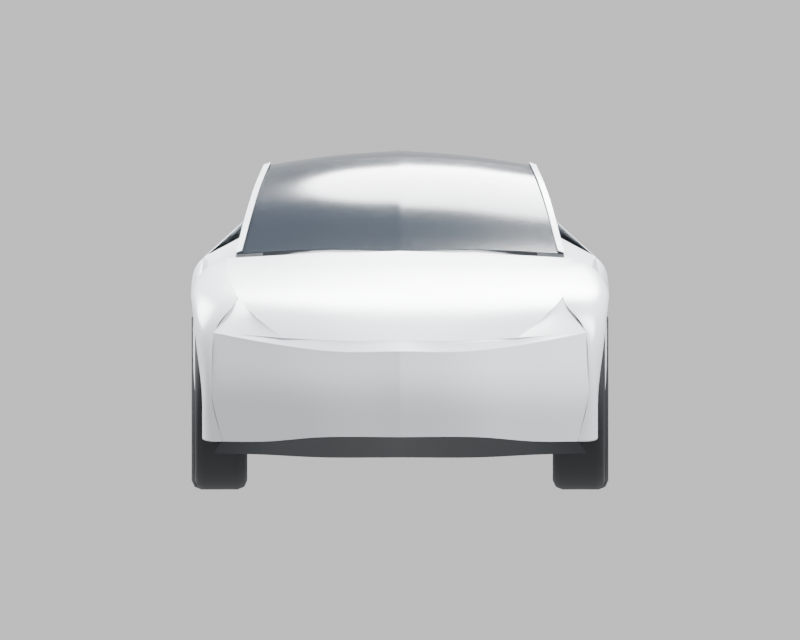
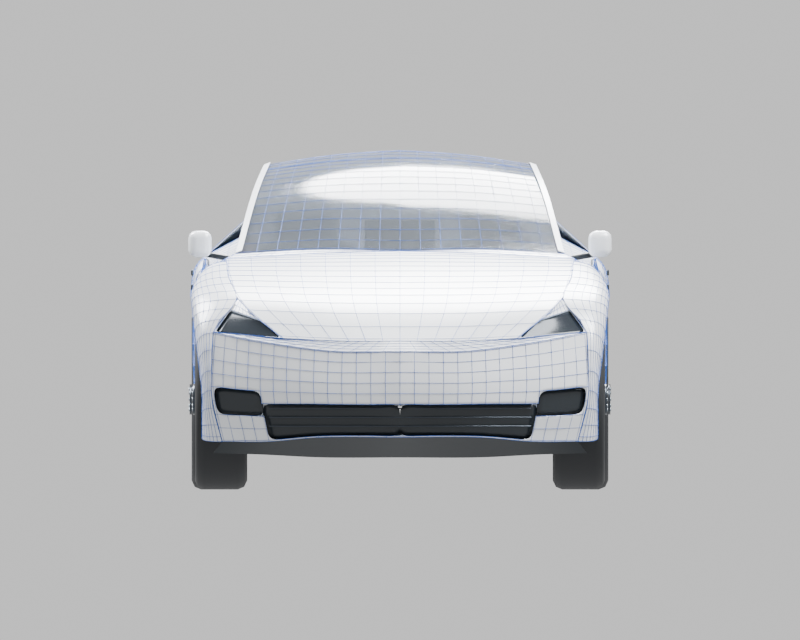
07-front-rear-details

Changed region(s): [[0.2188, 0.4688, 0.7812, 0.6875], [0.2188, 0.2188, 0.7812, 0.4375]]

diff --git a/scripts/fit_lamp_returns.py b/scripts/fit_lamp_returns.py
@@ -1,0 +1,19 @@
+"""Seat the rear lamp returns on the actual refined hatch surface."""
+import sys
+from pathlib import Path
+sys.path.insert(0,str(Path(__file__).resolve().parent))
+from project import *
+from mathutils.bvhtree import BVHTree
+target=bpy.data.objects['REAR_HATCH'];deps=bpy.context.evaluated_depsgraph_get()
+tree=BVHTree.FromObject(target,deps)
+for label in ('L','R'):
+    housing=bpy.data.objects['TAIL_RETURN_HOUSING_'+label];lens=bpy.data.objects['TAIL_RETURN_LENS_'+label]
+    for black,red in zip(housing.data.splines[0].bezier_points,lens.data.splines[0].bezier_points):
+        point=target.matrix_world.inverted()@(housing.matrix_world@black.co)
+        location,normal,index,distance=tree.find_nearest(point)
+        world=target.matrix_world@location
+        n=(target.matrix_world.to_3x3().inverted().transposed()@normal).normalized()
+        black.co=housing.matrix_world.inverted()@(world+n*.002)
+        red.co=lens.matrix_world.inverted()@(world+n*.010)
+bpy.context.view_layer.update();save()
+print('REAR_LAMP_RETURNS_SEATED_ON_REFINED_HATCH')

diff --git a/docs/development_log.md b/docs/development_log.md
@@ -1,0 +1,13 @@
+# Development evidence
+
+The previous starter had no images; the continuation package supplied all five. Their existence, decoded dimensions and original hashes were verified before geometry work.
+
+The first cage overlay showed square nose/tail sections in plan view. Those sections were narrowed and the shoulder rails reconciled. The first body mask comparison measured side 0.8975, top 0.9254, front 0.8941 and rear 0.9047 IoU. Wheelhouse backing, window-frame joins, front lip and greenhouse registration were corrected before further detailing.
+
+Reflection inspection exposed cowl/rear-quarter interpolation overshoot. Shape-preserving tangents and controlled transverse fender roll replaced the offending interpolation. The first detailed headlights were too vertical; they were moved to the cheek patches. Rims were inset into the tire profile and brake discs moved behind the spokes.
+
+A refinement script initially assumed vertex indices survived a cleanup weld. It raised IndexError and prevented later presentation objects from being created. The cowl update now rebuilds its control grid, the bridge is integrated into the fender boundary, and Blender commands use --python-exit-code 1. The corrected pipeline completed without Python exceptions and the saved project contains all 24 topology overlays.
+
+Browser screenshots exposed incorrect canvas alpha composition, which was corrected to an opaque neutral canvas with transparent glass rendered over it. Rear lamp returns were seated against the evaluated hatch surface after a final screenshot showed one standing proud. Geometry checks, renders, exports and browser QA were regenerated after these corrections.
+
+Intermediate diagnostic logs remain locally under validation/*.log and are excluded from Git. The final structured reports and proof renders are tracked.
